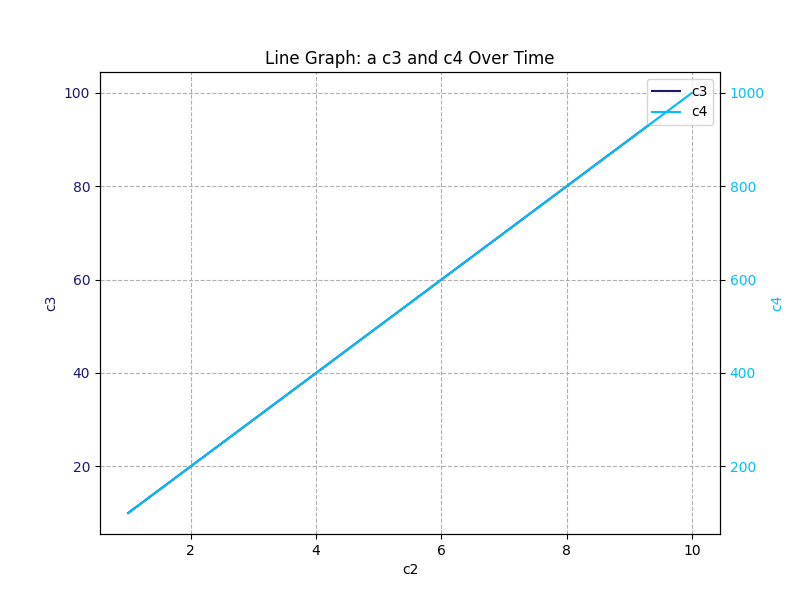
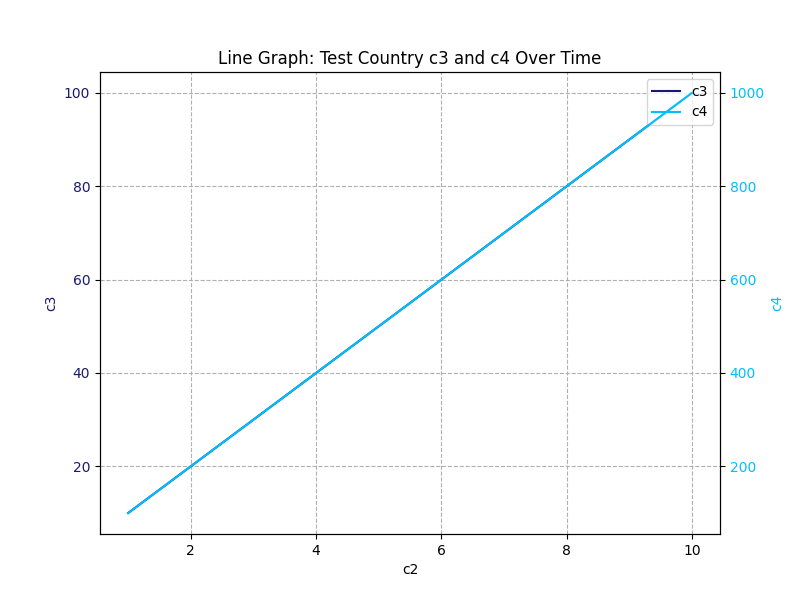
README + README_functions

Changed region(s): [[0.2812, 0.09, 0.75, 0.12]]

diff --git a/tests.py b/tests.py
@@ -1,6 +1,7 @@
 from functions import loadData, cleanData, mergeData, filterData, plotScatter, spearmanCorrelation, plotLines
 import pandas as pd
 import pytest
+import os
 
 testData1 = 'C:/Users/nooni/OneDrive/Documents/Desktop/PSCP_Final-1/testDataSample1.csv'
 testData2 = 'C:/Users/nooni/OneDrive/Documents/Desktop/PSCP_Final-1/testDataSample2.csv'
@@ -40,8 +41,9 @@ def testSpearmanCorrelation1():
     })
 
     correlation, p_value = spearmanCorrelation(df, 'ColumnX', 'ColumnY')
-    assert round(correlation, 3) == -1.000  # Expected perfect negative correlation
+    assert round(correlation, 3) == -1.000
     assert round(p_value, 3) == 0.000
+
 
 #Test plotScatter()
 
@@ -58,9 +60,13 @@ def testPlotLines():
     df = mergeData(cleanData(loadData(testData1)), cleanData(loadData(testData2)), 'c1', 'c2')
 
     try:
-        plotLines(df, 'c2', 'c3', 'c4', 'a', 'test_plot1.png')
+        plotLines(df, 'c2', 'c3', 'c4', 'Test Country', 'test_plot1.png')
     except Exception as e:
-        pytest.fail(f"plotScatter raised an error: {e}")
+        pytest.fail(f"plotLines raised an error: {e}")
+
+    assert os.path.exists('test_plot1.png'), "Plot file was not saved at test_plot1.png"
+
+
 
 
 

diff --git a/README_functions.md b/README_functions.md
@@ -1,0 +1,112 @@
+### functions.py documentation
+
+This module contains functions for:
+
+- Reading data
+- Cleaning data
+- Merging data
+- Filtering data
+- Running a Spearman Correlation Test
+- Creating a scatter plot
+- Creating a dual axis line graph
+
+## Functions
+
+### loadData(filepath: str) -> pd.DataFrame
+
+Reads data from a csv file into a dataframe
+
+**Parameters**
+
+- str: csv file path
+
+**Returns**
+Dataframe of csv file
+
+### cleanData(df: pd.DataFrame) -> pd.DataFrame
+
+Cleans a dataframe by removing missing values
+
+**Parameters**
+-df (pd.DataFrame): dataframe to clean
+
+**Returns**
+Cleaned dataframe
+
+### mergeData(df1: pd.DataFrame, df2: pd.DataFrame, column1: str, column2: str) -> pd.DataFrame
+
+Merges 2 dataframes on two columns
+
+**Parameters**
+
+- df1, df2 (pd.dataframes): dataframes to be merged
+  column1, column2 (str): names of columns for merging
+
+**Assumptions**
+
+- Data being mereged is already in a cleand dataframe
+- The data is to be merged on two columns
+
+**Returns**
+Merged dataframe
+
+### filterData(df: pd.DataFrame, column: str, filter: str) -> pd.DataFrame
+
+Filters data from a dataframe, based on a specified criteria
+
+**Parameters**
+-df1 (pd.DataFrame): dataframe being filtered
+-column (str): name of column being filtered
+-filter (str): criteria being filtered
+
+**Returns**
+-df: filtered dataframe
+
+### plotScatter(df: pd.DataFrame, columnX: str, columnY: str, savePath: str)
+
+Plots a scatter plot using data in a dataframe and saves the plot as a png
+
+**Parameters**
+-df (pd.DataFrame): dataframe containing the data to be plotted
+-columnX (str): name of column containing the data to be plotted on the x axis
+-columnY (str): name of column containing data to be plotted on the y axis
+-savePath (str): path where png of the plot is to be saved
+
+**Assumptions**
+-Data being plotted is in a cleaned dataframe
+
+- Plot is to be saved as a png
+
+### spearmanCorrelation(df: pd.DataFrame, columnX: str, columnY: str)-> tuple
+
+Runs a Spearman Correlation test on two variables in a dataframe, and returns the results
+
+**Parameters**
+-df (pd.DataFrame): dataframe containing the data being tested
+
+- columnX (str): name of the column containing the first variable being tested
+  -columnY (str): name of the column containing the second variable being tested
+
+**Returns**
+Tuple containing the Spearman coefficient and the p-value
+
+**Assumptions**
+
+- Both variables being tested are in one cleaned dataframe
+
+### plotLines(df: pd.DataFrame, columnX: str, columnY1: str, columnY2: str, country: str, savePath: str)
+
+Plots a line graph with 2 axes and saves it as a png
+
+**Parameters**
+
+- df (pd.DataFrame): dataframe containing the variables being plotted
+- columnX (str): name of the column containing the varible that is to be plotted on the x axis
+- columnY1 (str): name of the column containing the variable being plotted on the first (left) y axis
+- columnY2 (str): name of the column containing the varibale being plotted on the second (right) y axis
+- savePath (str): path where the png is to be stored
+
+**Assumptions**
+
+- The variables being plotted all exist in one cleaned dataframe
+- Plot is to be saved as png

diff --git a/README.md b/README.md
@@ -1,1 +1,17 @@
 # PSCP_Final
+
+## **Overview**
+
+This project performs data analysis on 2 datasets on gdp per capita and annual CO₂ emmissions per capita. The intention is to establish and analyse trends and correlations betweeen the two varibles, both globally and on a country by country basis.
+
+The data is sourced from Our World in Data.
+
+## **Technologies and Libraries**
+
+- Python
+- pandas
+- matplotlib
+- spicy
+- numpy
+- pytest
+- CircleCI
